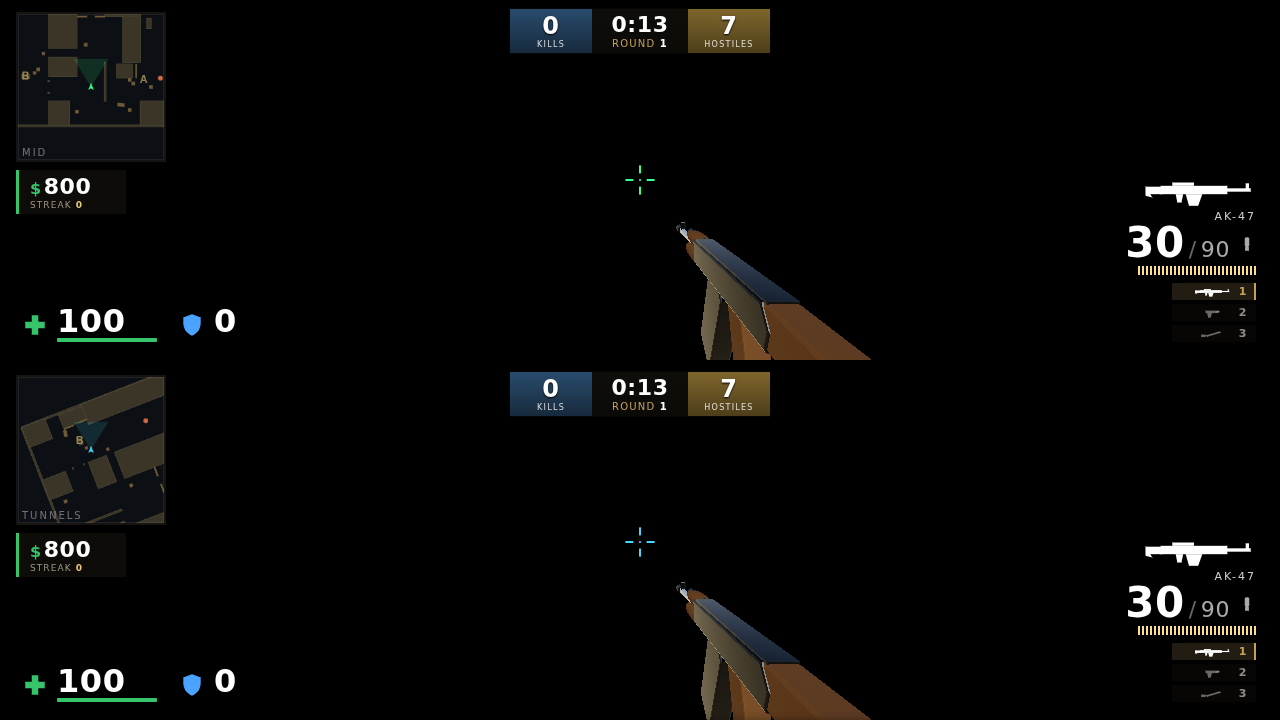
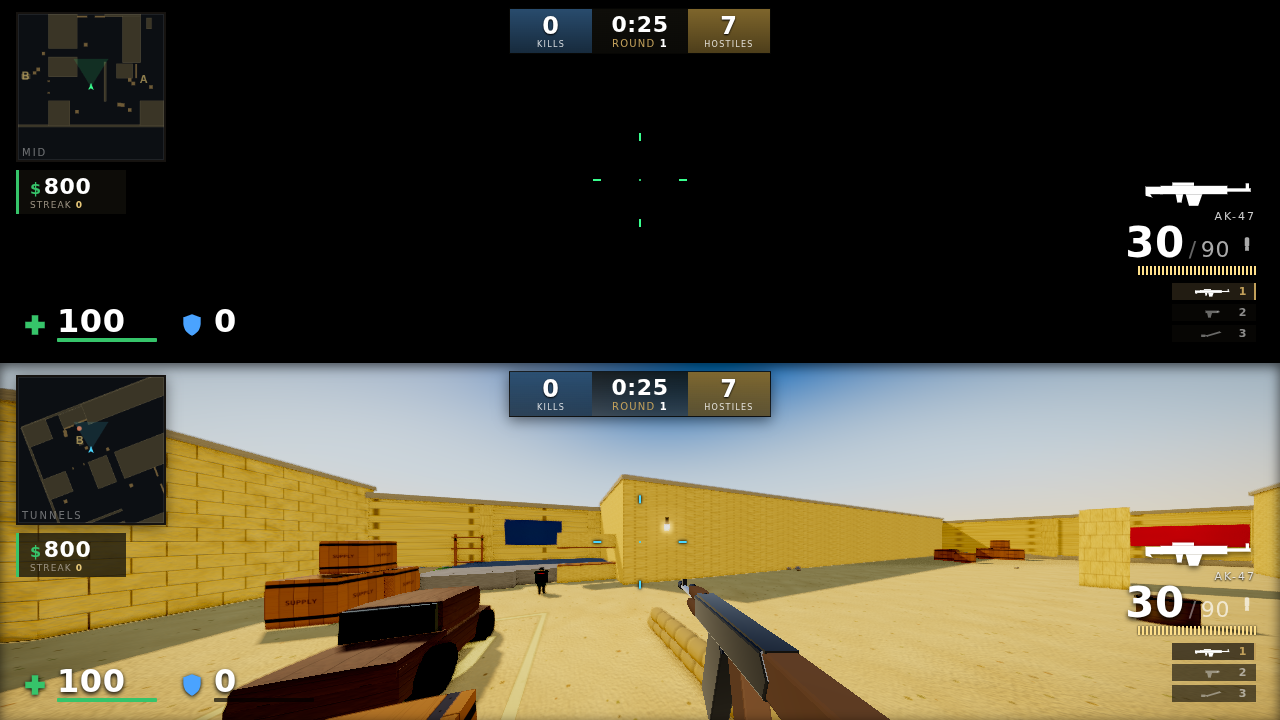
Split-screen: full post-FX per half (composer per viewport, same look as normal game); replace gamepad with keyboard for Player 2 (IJKL move, arrows look); briefing P2 controls

diff --git a/src/core/Engine.js b/src/core/Engine.js
@@ -239,8 +239,9 @@ export class Engine {
   _updateFxaa() {
     if (!this.fxaaPass) return;
     const pr = this.renderer.getPixelRatio();
+    const h = this._composerH || window.innerHeight;
     this.fxaaPass.material.uniforms['resolution'].value.set(
-      1 / (window.innerWidth * pr), 1 / (window.innerHeight * pr));
+      1 / (window.innerWidth * pr), 1 / (h * pr));
   }
 
   setBloom(on) {
@@ -262,45 +263,52 @@ export class Engine {
     this.camera2.aspect = aspect; this.camera2.updateProjectionMatrix();
     if (this.vmCamera) { this.vmCamera.aspect = aspect; this.vmCamera.updateProjectionMatrix(); }
     this.renderer.setSize(w, h);
-    this.composer.setSize(w, h);
-    this.bloomPass?.setSize(w, h);
-    this.gtaoPass?.setSize(w, h);
+    // the composer renders ONE view at a time, sized to that view (full in 1P,
+    // half-height in split) so both halves get the full post-FX pipeline.
+    const ch = this.split ? Math.floor(h / 2) : h;
+    this._composerH = ch;
+    this.composer.setSize(w, ch);
+    this.bloomPass?.setSize(w, ch);
+    this.gtaoPass?.setSize(w, ch);
     this._updateFxaa();
+  }
+
+  // Render a single view (full post-FX) into the current renderer viewport.
+  _renderView(view) {
+    const r = this.renderer;
+    this.renderPass.camera = view.camera || this.camera;
+    if (this.gtaoPass) this.gtaoPass.camera = view.camera || this.camera;
+    const vx = r.getViewport(this._vp || (this._vp = new THREE.Vector4()));
+    this.composer.render();
+    if (view.vmScene) {
+      r.setViewport(vx.x, vx.y, vx.z, vx.w);   // composer may have changed it
+      r.autoClear = false; r.clearDepth();
+      r.render(view.vmScene, this.vmCamera);
+      r.autoClear = true;
+    }
   }
 
   /**
    * Render the given player views. views = [{camera, vmScene}, ...].
-   * 1 view -> full post-FX composer. 2 views -> direct dual scissor render
-   * (top = views[0], bottom = views[1]).
+   * Both single and split use the full composer; split renders each half
+   * into a stacked viewport so the post-FX matches the normal game.
    */
   render(views) {
     const r = this.renderer;
     if (!views || views.length <= 1) {
-      const v = (views && views[0]) || { camera: this.camera, vmScene: null };
-      this.renderPass.camera = v.camera || this.camera;
-      this.composer.render();
-      if (v && v.vmScene) {
-        r.autoClear = false; r.clearDepth();
-        r.render(v.vmScene, this.vmCamera);
-        r.autoClear = true;
-      }
+      r.setViewport(0, 0, r.domElement.width, r.domElement.height);
+      this._renderView((views && views[0]) || { camera: this.camera, vmScene: null });
       return;
     }
-    // split: two stacked halves
-    const w = r.domElement.width, h = r.domElement.height;   // device pixels
-    const halfH = Math.floor(h / 2);
-    const rects = [[0, halfH, w, h - halfH], [0, 0, w, halfH]]; // GL y is bottom-up
-    r.setScissorTest(true);
+    const W = r.domElement.width, H = r.domElement.height, hh = Math.floor(H / 2);
+    const rects = [[0, H - hh, W, hh], [0, 0, W, hh]];   // top, bottom (GL y up)
+    this.vmCamera.aspect = W / (hh || 1); this.vmCamera.updateProjectionMatrix();
     for (let i = 0; i < 2; i++) {
       const [x, y, vw, vh] = rects[i];
       r.setViewport(x, y, vw, vh);
-      r.setScissor(x, y, vw, vh);
-      r.clear();
-      r.render(this.scene, views[i].camera);
-      if (views[i].vmScene) { r.clearDepth(); r.render(views[i].vmScene, this.vmCamera); }
+      this._renderView(views[i]);
     }
-    r.setScissorTest(false);
-    r.setViewport(0, 0, w, h);
+    r.setViewport(0, 0, W, H);
   }
 
   dispose() {

diff --git a/src/core/KeyboardInput2.js b/src/core/KeyboardInput2.js
@@ -1,0 +1,85 @@
+/**
+ * KeyboardInput2 — Player 2 on the SAME keyboard, exposing the same
+ * interface as the Player 1 Input so Player/WeaponManager work unchanged.
+ *
+ * Controls (right side of the keyboard):
+ *   Move  : I/J/K/L  (I fwd, K back, J left, L right)
+ *   Look  : Arrow keys (← → turn, ↑ ↓ pitch)   [keyboard turn]
+ *   Fire  : Right Shift     Aim/scope : /  (Slash)
+ *   Reload: P   Switch : O   Jump : '  Crouch : .   Buy : U   Pickup : Y
+ */
+const TURN_YAW = 2.6;     // rad/s keyboard turn
+const TURN_PITCH = 1.9;
+const BASE_SENS = 0.0022; // matches Player.baseSens
+
+// canonical action code -> P2 physical key code
+const MAP = {
+  Space: 'Quote',         // jump
+  ControlLeft: 'Period',  // crouch
+  KeyC: 'Period',
+  KeyR: 'KeyP',           // reload
+  KeyQ: 'KeyO',           // switch weapon
+  KeyG: 'KeyY',           // pickup
+  KeyB: 'KeyU',           // buy
+};
+const P2_KEYS = new Set(['KeyI', 'KeyJ', 'KeyK', 'KeyL', 'ArrowUp', 'ArrowDown', 'ArrowLeft', 'ArrowRight',
+  'ShiftRight', 'Slash', 'KeyP', 'KeyO', 'Quote', 'Period', 'KeyU', 'KeyY']);
+
+export class KeyboardInput2 {
+  constructor() {
+    this.kind = 'keyboard';
+    this.locked = true;          // no pointer lock for P2
+    this.enabled = false;
+    this.invertY = false;
+    this.sensitivity = 1.0;
+    this.keys = new Set();
+    this.justPressed = new Set();
+    this.buttons = { left: false, right: false };
+    this.justClicked = { left: false, right: false };
+    this._prevFire = false; this._prevAim = false;
+    this.wheel = 0;
+    this._lookDX = 0; this._lookDY = 0;
+    this._bind();
+  }
+
+  _bind() {
+    addEventListener('keydown', (e) => {
+      if (!this.enabled || !P2_KEYS.has(e.code)) return;
+      if (!this.keys.has(e.code)) this.justPressed.add(e.code);
+      this.keys.add(e.code);
+      if (e.code.startsWith('Arrow') || e.code === 'Quote') e.preventDefault();
+    });
+    addEventListener('keyup', (e) => { this.keys.delete(e.code); });
+  }
+
+  update(dt) {
+    // keyboard-turn look from arrow keys, in mouse-delta units
+    let yaw = 0, pitch = 0;
+    if (this.keys.has('ArrowLeft')) yaw += 1;
+    if (this.keys.has('ArrowRight')) yaw -= 1;
+    if (this.keys.has('ArrowUp')) pitch -= 1;
+    if (this.keys.has('ArrowDown')) pitch += 1;
+    const k = (dt || 0.016) / BASE_SENS * this.sensitivity;
+    this._lookDX += yaw * TURN_YAW * k;
+    this._lookDY += (this.invertY ? -pitch : pitch) * TURN_PITCH * k;
+    // fire / aim edges
+    const fire = this.keys.has('ShiftRight'), aim = this.keys.has('Slash');
+    this.buttons.left = fire; this.buttons.right = aim;
+    this.justClicked.left = fire && !this._prevFire;
+    this.justClicked.right = aim && !this._prevAim;
+    this._prevFire = fire; this._prevAim = aim;
+  }
+
+  moveAxis() {
+    return {
+      f: (this.keys.has('KeyI') ? 1 : 0) - (this.keys.has('KeyK') ? 1 : 0),
+      s: (this.keys.has('KeyL') ? 1 : 0) - (this.keys.has('KeyJ') ? 1 : 0),
+    };
+  }
+  down(code) { const k = MAP[code]; return k ? this.keys.has(k) : false; }
+  pressed(code) { const k = MAP[code]; return k ? this.justPressed.has(k) : false; }
+
+  consumeLook() { const dx = this._lookDX, dy = this._lookDY; this._lookDX = 0; this._lookDY = 0; return { dx, dy }; }
+  endFrame() { this.justPressed.clear(); this.justClicked.left = false; this.justClicked.right = false; this.wheel = 0; }
+  requestLock() {} exitLock() {}
+}

diff --git a/src/main.js b/src/main.js
@@ -5,7 +5,7 @@
  */
 import { Engine } from './core/Engine.js';
 import { Input } from './core/Input.js';
-import { GamepadInput } from './core/GamepadInput.js';
+import { KeyboardInput2 } from './core/KeyboardInput2.js';
 import { AudioEngine } from './audio/AudioEngine.js';
 import { HUD } from './ui/HUD.js';
 import { Menus } from './ui/Menus.js';
@@ -19,9 +19,9 @@ const engine = new Engine(canvas, menus.settings.quality);
 const game = new Game(engine, audio);
 game.menus = menus;
 
-// Player 1 = keyboard + mouse, Player 2 = gamepad.
+// Both players share one keyboard. P1 = WASD + mouse, P2 = IJKL + arrows.
 const input1 = new Input(canvas);
-const gamepad2 = new GamepadInput(0);
+const input2 = new KeyboardInput2();
 const $ = (id) => document.getElementById(id);
 const hud1 = new HUD($('hudv-1'), { accent: '#39ff8e', label: 'P1' });
 const hud2 = new HUD($('hudv-2'), { accent: '#4ad6ff', label: 'P2' });
@@ -29,13 +29,13 @@ const buy1 = new BuyMenu(audio, $('buyv-1'));
 const buy2 = new BuyMenu(audio, $('buyv-2'));
 game.configureSlots([
   { input: input1, camera: engine.camera, hud: hud1, buyMenu: buy1, name: 'PLAYER 1', color: 0x39ff8e },
-  { input: gamepad2, camera: engine.camera2, hud: hud2, buyMenu: buy2, name: 'PLAYER 2', color: 0x4ad6ff },
+  { input: input2, camera: engine.camera2, hud: hud2, buyMenu: buy2, name: 'PLAYER 2', color: 0x4ad6ff },
 ]);
 
 input1.sensitivity = menus.settings.sensitivity;
 input1.invertY = menus.settings.invertY;
-gamepad2.sensitivity = menus.settings.sensitivity;
-gamepad2.invertY = menus.settings.invertY;
+input2.sensitivity = menus.settings.sensitivity;
+input2.invertY = menus.settings.invertY;
 audio.masterVolume = menus.settings.volume / 100;
 engine.setFov(menus.settings.fov);
 
@@ -53,7 +53,7 @@ function applyLayout(n) {
 
 function applySettings(s, key) {
   input1.sensitivity = s.sensitivity; input1.invertY = s.invertY;
-  gamepad2.sensitivity = s.sensitivity; gamepad2.invertY = s.invertY;
+  input2.sensitivity = s.sensitivity; input2.invertY = s.invertY;
   audio.setVolume(s.volume / 100);
   for (const P of game.players) P.weapons.setBaseFov(s.fov);
   if (!game.players.length) engine.setFov(s.fov);
@@ -105,7 +105,7 @@ async function start(n) {
 }
 menus.on('play', () => start(1));
 menus.on('coop', () => {
-  if (!gamepad2.connected) menus.flashHint('Connect a gamepad for Player 2 (you can still start).');
+  menus.flashHint('P2 controls: move I J K L · look ← ↑ → ↓ · fire RShift · reload P · buy U');
   start(2);
 });
 function resumeGame() { game.resume(); if (game.players[0]) input1.requestLock(); }
@@ -125,17 +125,15 @@ function loop(now) {
   if (dt > 0.05) dt = 0.05; if (dt < 0) dt = 0;
 
   const s = game.state;
+  const active = (s === 'playing' || s === 'buy');
+  input1.enabled = active; input2.enabled = active;
   if (s === 'playing') {
-    input1.enabled = true;
-    if (input1.locked) menus.hideLock(); else menus.showLock();
+    if (game.numPlayers < 2 && !input1.locked) menus.showLock(); else menus.hideLock();
     game.update(dt);
   } else if (s === 'buy') {
-    input1.enabled = true; menus.hideLock();
-    game.update(dt);
+    menus.hideLock(); game.update(dt);
   } else if (s === 'roundend' || s === 'dead') {
-    input1.enabled = false; game.update(dt);
-  } else {
-    input1.enabled = false;
+    game.update(dt);
   }
 
   engine.render(game.players.length ? game.views() : null);

diff --git a/index.html b/index.html
@@ -65,6 +65,9 @@
       </div>
       <p class="brief-note">Win each round by eliminating every hostile. Each round
         spawns more enemies with sharper aim. Headshots deal massive damage — and so do theirs.</p>
+      <p class="brief-note"><b>2-PLAYER CO-OP (same keyboard):</b> Player 2 — move <kbd>I</kbd><kbd>J</kbd><kbd>K</kbd><kbd>L</kbd>,
+        look <kbd>←</kbd><kbd>↑</kbd><kbd>→</kbd><kbd>↓</kbd>, fire <kbd>R-Shift</kbd>, aim <kbd>/</kbd>, reload <kbd>P</kbd>,
+        switch <kbd>O</kbd>, jump <kbd>'</kbd>, crouch <kbd>.</kbd>, buy <kbd>U</kbd>.</p>
       <button class="btn btn-primary close-overlay" data-close="briefing">GOT IT</button>
     </div>
   </div>
